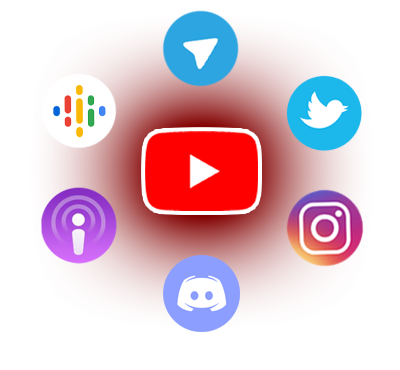
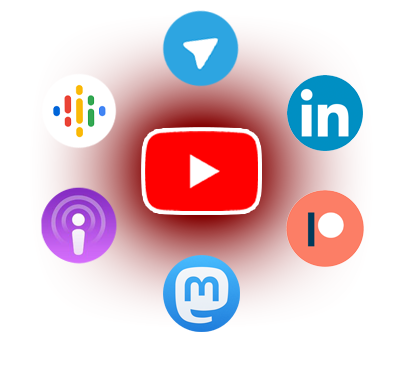
update images

Changed region(s): [[0.69, 0.5054, 0.93, 0.7432], [0.39, 0.6838, 0.6, 0.9216], [0.72, 0.1784, 0.93, 0.4162]]

diff --git a/Site/Itbeard.Site.WebAssembly/Pages/Contacts.razor.css b/Site/Itbeard.Site.WebAssembly/Pages/Contacts.razor.css
@@ -93,7 +93,7 @@ section.content {
 }
 
 #third_slide {
-    background: url("/images/other-recources.png") 25% / auto auto no-repeat;
+    background: url("/images/socials.png") no-repeat 35% 50%;
     min-height: 100vh;
 }
 
